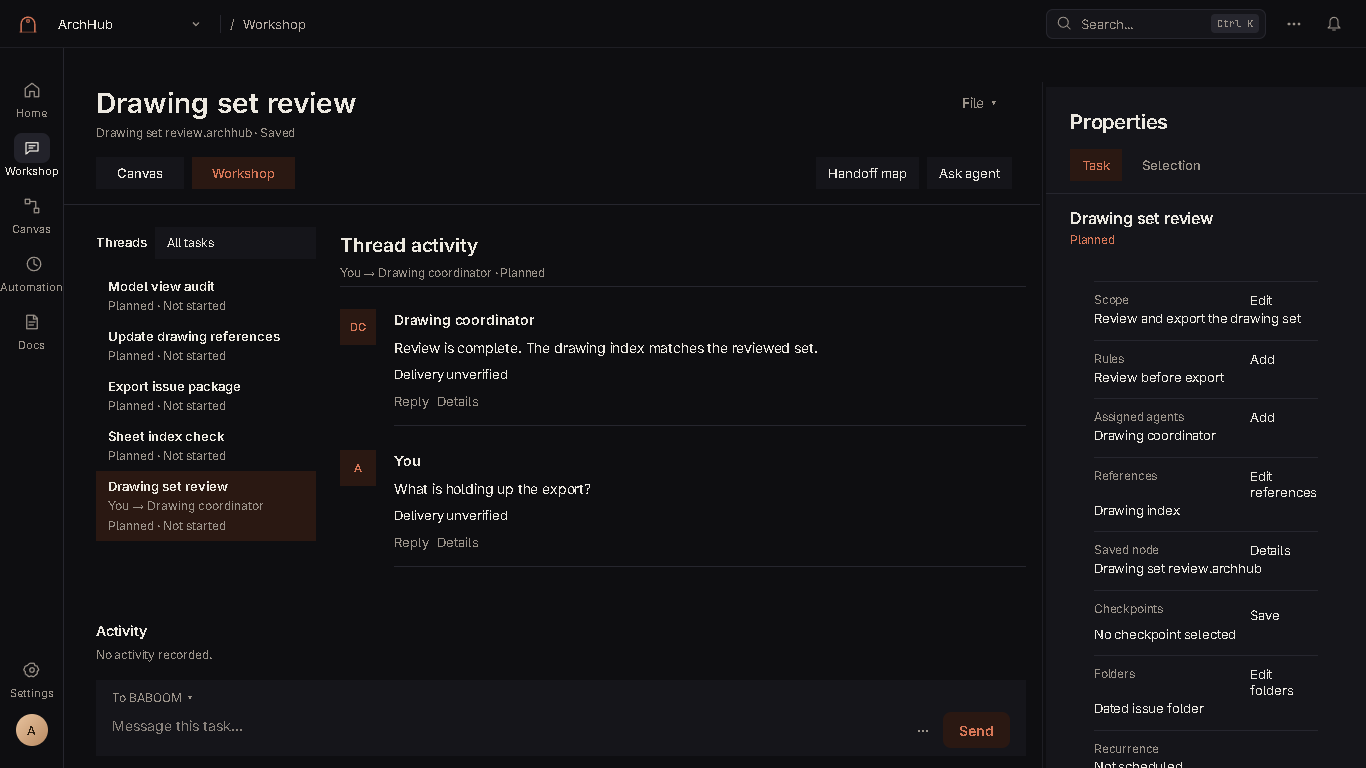
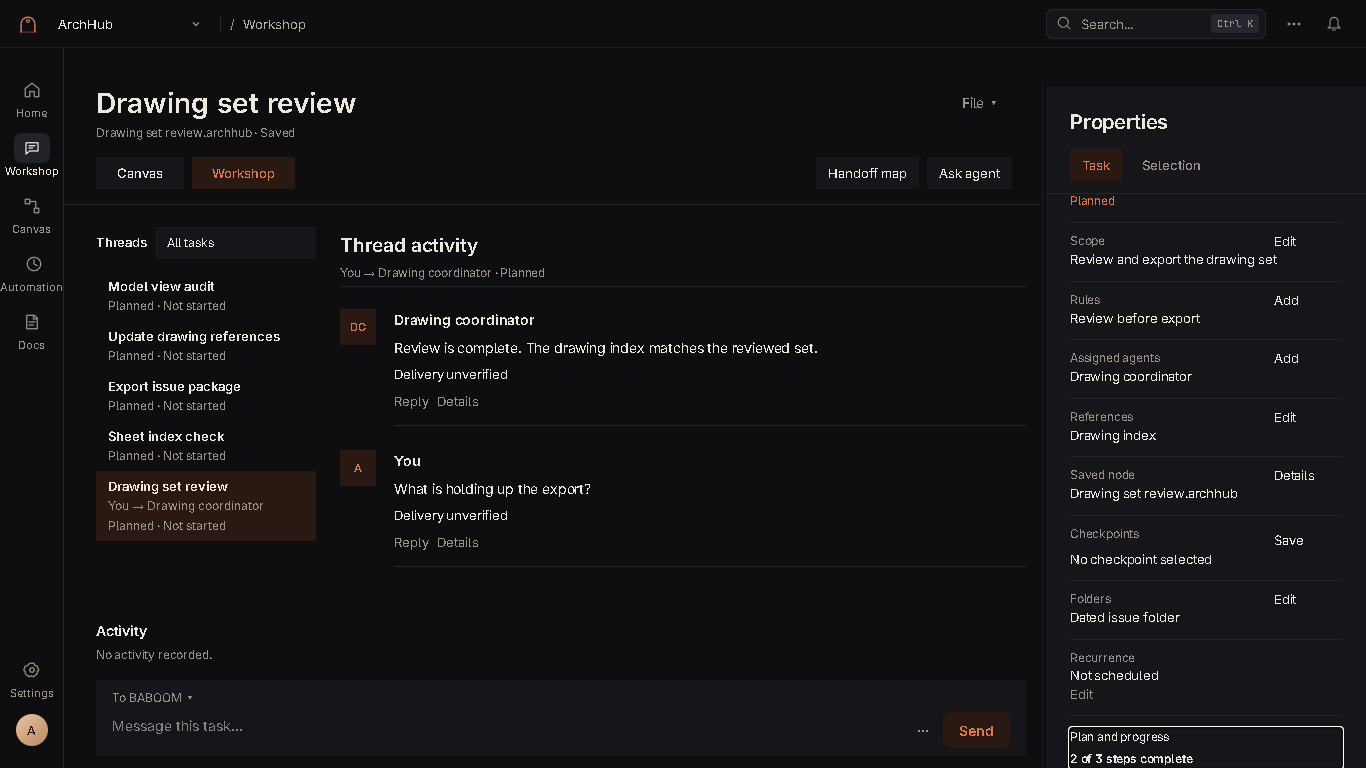
Resolve DESIGNBUILD board review findings
Intent: NOGRAPH

diff --git a/01.APP/nodelang/studio/ds_screens.jsx b/01.APP/nodelang/studio/ds_screens.jsx
@@ -614,6 +614,7 @@
       zoomWrites = React.useRef(Promise.resolve()),
       pendingZoomWrites = React.useRef(0);
     const fittedScope = React.useRef(null);
+    const framedScope = React.useRef(null);
     const userViewport = React.useRef(false);
     const {zoom, pan} = viewport;
     const [requestState, setRequestState] = React.useState('waiting');
@@ -941,6 +942,24 @@
       window.UI.requestCanvasFit = fit;
       return () => { if (window.UI.requestCanvasFit === fit) window.UI.requestCanvasFit = null; };
     });
+    React.useLayoutEffect(() => {
+      if (!embedded || !active || framedScope.current === scope || userViewport.current || !area.current) return;
+      if (requestState === 'empty') {framedScope.current=scope;return;}
+      if (requestState !== 'loaded' || layout.scope !== scope) return;
+      const boxes=[...area.current.querySelectorAll('[data-graph-node]')].map(element=>{
+        const node=visible.find(node=>node.id===element.dataset.graphNode);
+        return node && {x:node.x,y:node.y,w:element.offsetWidth,h:element.offsetHeight};
+      }).filter(Boolean);
+      if (!boxes.length || boxes.length !== visible.length) return;
+      const width=area.current.clientWidth,height=area.current.clientHeight,z=view.current.zoom;
+      const minX=Math.min(...boxes.map(box=>box.x)),minY=Math.min(...boxes.map(box=>box.y));
+      const span=Math.max(...boxes.map(box=>box.x+box.w))-minX;
+      const frame=fitCanvasViewport(boxes,width,height,z,z,z);
+      if (span*z > width-32) frame.pan.x=32-minX*z;
+      frame.pan.y=120-minY*z;
+      updateView(frame,false);
+      framedScope.current=scope;
+    }, [embedded,active,requestState,scope,layout,flowNodes.length]);
     const openNode = n => {
       if (n.kind.toLowerCase().includes('meeting')) u.go('meetings');else if (n.kind === 'Watch program') u.act(() => api.windowAction('hide'));else if (n.kind === 'Present') u.go('present');else if (['Community', 'Community group', 'Marketplace listing', 'Project charge'].includes(n.kind)) u.go('community');else if (n.kind === 'Interface studio' || n.kind === 'UI element') u.go('interface');else if (n.kind.startsWith('TBP ')) u.go('model-review');else if (n.kind === 'Theme') u.go('settings/Appearance');else if (n.kind === 'Workflow link') {
         if (n.params.targetGraph) u.act(() => api.selectGraph(n.params.targetGraph));else u.show('Workflows');
@@ -1040,7 +1059,7 @@
        selectionOnDrag panOnDrag={[1]} panActivationKeyCode="Space" multiSelectionKeyCode="Shift" selectionKeyCode={null} deleteKeyCode={null}
        zoomOnDoubleClick={false} connectionLineStyle={{stroke: A.cyan, strokeWidth: 2}} proOptions={{hideAttribution: true}} />
     </CanvasContext.Provider>
-    <div data-canvas-overlay="" className="canvas-toolbar"><Btn variant="controls" sm ghost aria-label="Zoom out" onClick={event => executeAction("projects.ds_screens.ZoomOut.20", {zoomAt,view}, event)}>−</Btn><button className="button-reset" onClick={event => executeAction("projects.ds_screens.ResetZoom.21", {zoomAt}, event)} title="Reset zoom">{Math.round(zoom * 100)}%</button><Btn variant="controls" sm ghost aria-label="Zoom in" onClick={event => executeAction("projects.ds_screens.ZoomIn.22", {zoomAt,view}, event)}>+</Btn><button type="button" className="dx-quiet" onClick={event => executeAction("projects.ds_screens.Fit.23", {fit}, event)}>Fit</button>{embedded && onHandoff && <button type="button" className="dx-quiet" onClick={event=>executeAction("projects.controls.activate",{handler:onHandoff},event)}>Handoff map</button>}</div>
+    <div data-canvas-overlay="" className="canvas-toolbar">{parent && <button type="button" className="dx-quiet" onClick={event=>executeAction("projects.ds_screens.Parent.6",{parent,s,setParent,setSelected},event)}>← {s.graph.nodes.find(node=>node.id===parent)?.title || 'Parent'}</button>}<Btn variant="controls" sm ghost aria-label="Zoom out" onClick={event => executeAction("projects.ds_screens.ZoomOut.20", {zoomAt,view}, event)}>−</Btn><button className="button-reset" onClick={event => executeAction("projects.ds_screens.ResetZoom.21", {zoomAt}, event)} title="Reset zoom">{Math.round(zoom * 100)}%</button><Btn variant="controls" sm ghost aria-label="Zoom in" onClick={event => executeAction("projects.ds_screens.ZoomIn.22", {zoomAt,view}, event)}>+</Btn><button type="button" className="dx-quiet" onClick={event => executeAction("projects.ds_screens.Fit.23", {fit}, event)}>Fit</button>{embedded && onHandoff && <button type="button" className="dx-quiet" onClick={event=>executeAction("projects.controls.activate",{handler:onHandoff},event)}>Handoff map</button>}</div>
     {embedded && <><div data-workflow-label="">Workflow</div><div data-canvas-summary="" aria-label="Workflow status">{[...stateCounts].map(([label,count])=>count+' '+label).join(' · ')}</div></>}
    </div>
    {!externalInspector && inspected && <NodeInspector n={inspected} s={s} u={u} />}

diff --git a/01.APP/nodelang/studio/style.css b/01.APP/nodelang/studio/style.css
@@ -636,16 +636,7 @@ html[data-reduced-motion="true"] *::after{transition:none!important;animation:no
 .dx-workspace[data-task-face=workshop] .dx-msg-actions button{background:transparent;padding:0;color:var(--color-ink-soft);height:20px}
 .dx-workspace[data-task-face=workshop] [data-dx=plan]{padding:10px 0 0;background:transparent;border-top:1px solid var(--color-line);flex:none}
 .dx-workspace[data-task-face=workshop] [data-dx=plan] h2{font-size:calc(14px * var(--text-scale,1));line-height:20px;margin:0 0 8px}
-.dx-workspace[data-task-face=workshop] .dx-stepper{display:flex;flex-wrap:wrap;gap:8px 16px;margin:0;padding:0}
-.dx-workspace[data-task-face=workshop] .dx-stepper li{display:flex;align-items:center;gap:4px;font-size:calc(12px * var(--text-scale,1));line-height:18px;background:transparent;padding:0;border:0}
-.dx-workspace[data-task-face=workshop] .dx-stepper small{display:none}
-.dx-workspace[data-task-face=workshop] .dx-stepper b{font-weight:400}
-.dx-workspace[data-task-face=workshop] .dx-params{padding:20px 24px;background:var(--color-bg-panel)}
-.dx-workspace[data-task-face=workshop] .dx-params-head{display:block;padding:0 0 8px}
-.dx-workspace[data-task-face=workshop] .dx-params h2{font-size:calc(20px * var(--text-scale,1));line-height:24px}
-.dx-workspace[data-task-face=workshop] .dx-params-head p{font-size:calc(12px * var(--text-scale,1));line-height:18px;color:var(--color-ink-soft)}
 .dx-workspace[data-task-face=workshop] .dx-fact{padding:10px 0 12px;border-top:1px solid var(--color-line);min-height:56px}
-.dx-workspace[data-task-face=workshop] .dx-plan-summary{display:none}
 .dx-workspace[data-task-face=workshop] .dx-composer{position:relative;min-height:76px;padding:8px 16px;gap:4px;border-radius:0}
 .dx-workspace[data-task-face=workshop] .dx-composer textarea{font-size:calc(14px * var(--text-scale,1));line-height:22px;min-height:28px;height:28px;padding-right:90px}
 .dx-workspace[data-task-face=workshop] .dx-tools{position:absolute;right:16px;bottom:8px;gap:8px}
@@ -803,3 +794,5 @@ html[data-reduced-motion="true"] *::after{transition:none!important;animation:no
 .sheet-category+.sheet-category{margin-top:30px}
 
 html[data-theme=Light]{--color-bg:var(--color-l-bg);--color-bg-deep:var(--color-l-bg);--color-bg-panel:var(--color-l-bg-panel);--color-bg-canvas:var(--color-l-bg);--color-bg-soft:var(--color-l-bg-soft);--color-bg-raised:var(--color-l-bg-panel);--color-bg-hover:var(--color-l-bg-soft);--color-bg-ink:var(--color-l-bg-soft);--color-ink:var(--color-l-ink);--color-ink-soft:var(--color-l-ink-soft);--color-ink-muted:var(--color-l-ink-muted);--color-line:var(--color-l-line);--color-line-soft:var(--color-l-line);--color-accent:var(--color-l-accent);--color-accent-hi:var(--color-l-accent)}
+
+.dx-edit-label{white-space:nowrap}

diff --git a/01.APP/nodelang/studio/ds_home2.jsx b/01.APP/nodelang/studio/ds_home2.jsx
@@ -119,7 +119,7 @@
       return true;
     };
     return <details className="dx-fact dx-edit-field" data-dx-list={label}>
-      <summary><span>{label}</span><span className="dx-edit-label">{action}</span><b>{source.map(describe).join(' · ') || 'Not set'}</b></summary>
+      <summary aria-label={action.startsWith('Edit ') ? action : undefined}><span>{label}</span><span className="dx-edit-label">{action.startsWith('Edit ') ? 'Edit' : action}</span><b>{source.map(describe).join(' · ') || 'Not set'}</b></summary>
       {rows.map((row, index) => choices ? <window.UI.AgentPicker key={stamp + ':' + index} label={label + ' ' + (index + 1)} choices={choices} to={row} setTo={value => { if (value === row) return; const next = rows.slice(); next[index] = value; commit(next); }} /> : <input key={stamp + ':' + index} aria-label={label + ' ' + (index + 1)} defaultValue={describe(row)} onBlur={event => { if (event.target.value === describe(row)) return; const next = rows.slice(); next[index] = event.target.value; commit(next); }} />)}
       <button type="button" className="dx-link" onClick={() => executeAction('ui.select', () => setRows(current => [...current, '']))}>{choices ? '+ Add agent' : '+ Add'}</button>
     </details>;

diff --git a/02.TESTS/tests/test_designbuild.py b/02.TESTS/tests/test_designbuild.py
@@ -8,7 +8,7 @@ import pytest
 from test_task_session_roundtrip import _isolate, _Studio, _post
 
 
-@pytest.mark.parametrize("board", ["home", "workshop", "canvas", "settings"])
+@pytest.mark.parametrize("board", ["home", "workshop", "canvas", "settings", "canvas_fit"])
 def test_designbuild_board(tmp_path, monkeypatch, board):
     browser_cache = os.environ.get('PLAYWRIGHT_BROWSERS_PATH', '')
     if not browser_cache:
@@ -30,13 +30,15 @@ def test_designbuild_board(tmp_path, monkeypatch, board):
             'progress': {'Read sheet index': 'done', 'Review drawings': 'done'},
             'messages': [{'id':'review-complete','who':'Drawing coordinator','text':'Review is complete. The drawing index matches the reviewed set.'},{'id':'ask-export','who':'You','text':'What is holding up the export?'}],
         })
-        if board == 'canvas':
+        if board in ('canvas', 'canvas_fit'):
             import copy
             from nodelang.session_files import catalogue
             items = {row['id']: row for row in catalogue()}
             nodes = [{'id': key, 'item': item, 'type': items[item]['engine'], 'title': items[item]['title'],
                       'params': copy.deepcopy(items[item]['params']), 'position': {'x': x, 'y': 0}}
                      for key, item, x in [('list','n_list',0),('slice','s_slice',350),('count','s_count',700),('pdf','o_pdf_handoff',1050)]]
+            if board == 'canvas_fit':
+                nodes = nodes[:2]
             nodes[0]['params']['value'] = '[10, 20, 30, 40, 50]'
             nodes[1]['params']['count'] = '3'
             view = client.workshop('openTaskGraph', task['taskId'])
@@ -45,6 +47,8 @@ def test_designbuild_board(tmp_path, monkeypatch, board):
             opened['document']['wires'] = [
                 {'id':'first','from':{'node':'list','socket':'value'},'to':{'node':'slice','socket':'items'}},
                 {'id':'second','from':{'node':'slice','socket':'items_out'},'to':{'node':'count','socket':'items'}}]
+            if board == 'canvas_fit':
+                opened['document']['wires'] = opened['document']['wires'][:1]
             client.files('save', path=view['path'], document=opened['document'])
         for title in ['Sheet index check', 'Export issue package', 'Update drawing references', 'Model view audit']:
             client.workshop('createTask', title)
@@ -58,6 +62,8 @@ def test_designbuild_board(tmp_path, monkeypatch, board):
             creationflags=getattr(subprocess, 'CREATE_NO_WINDOW', 0))
         print(result.stdout)
         assert result.returncode == 0, result.stdout + result.stderr
+        if board == 'canvas_fit':
+            return
         reopened = client.workshop('openTaskGraph', task['taskId'])
         assert reopened['scope'] == 'Review the current issue'
         assert reopened['rules'] == ['Review every sheet before export']
